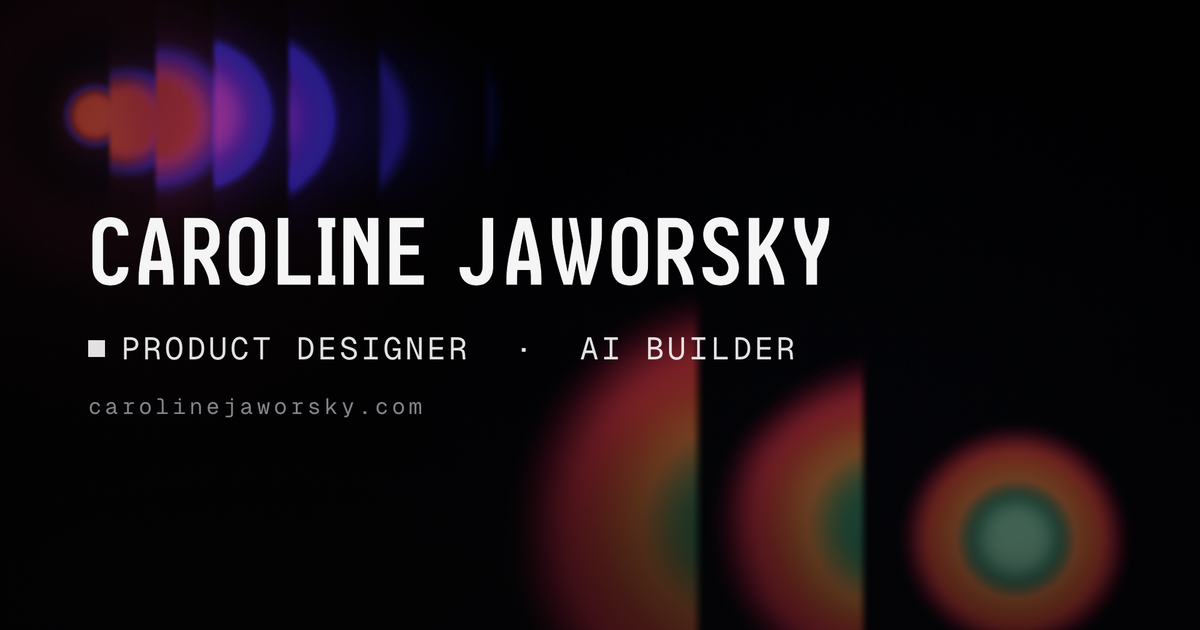
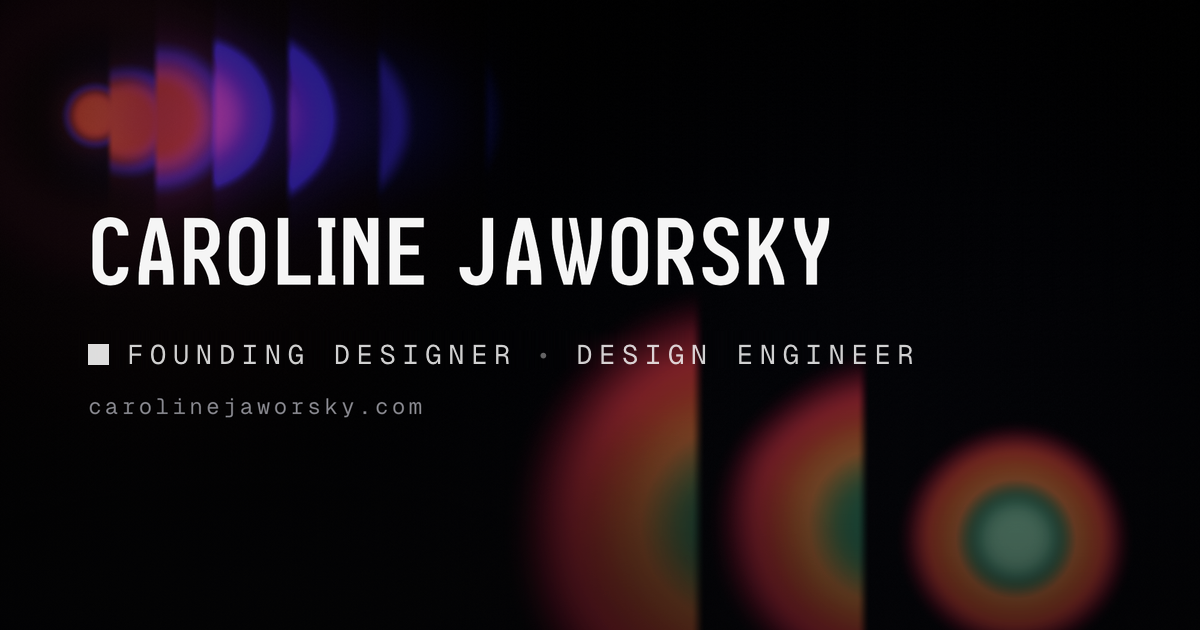
og card label refresh, streaming hero copy, galaxy default view trim

Changed region(s): [[0.0617, 0.5127, 0.4317, 0.6032], [0.4625, 0.5127, 0.7708, 0.573]]

diff --git a/components/HeroCopy.tsx b/components/HeroCopy.tsx
@@ -2,13 +2,76 @@
 
 import { useEffect, useState } from "react";
 
-// The headline types itself in on first paint — as if someone were keying it
-// in live. Iosevka Charon (terminal-ish, quasi-proportional) sells the effect.
+// The headline types itself in on first paint, then the intro paragraphs
+// STREAM in after it (same feel as the About bio) — one timeline, so the copy
+// never sits there fully-formed while the headline is still keying in.
 // ("Hi I'm Caroline," intro line removed 2026-08-17 per Caroline.)
 const HEADLINE = "I turn early concepts into\nlaunch-ready products";
 
 const START_DELAY = 350; // ms before the first character
 const HEADLINE_SPEED = 42;
+const SUB_DELAY = 250; // beat between headline finishing and the stream
+const SUB_CPS = 550; // paragraph stream speed (chars/second)
+
+const MINT = "text-[#94FFD9]";
+const BOLD = "text-fg font-semibold";
+
+// Rich segments: cls styles the span; decor marks the unicode sparkles
+// (aria-hidden on the visible layer, excluded from the sr-only text).
+type Seg = { t: string; cls?: string; decor?: boolean };
+
+const PARAGRAPHS: Seg[][] = [
+  [
+    { t: "I’m a designer with " },
+    { t: "13 years", cls: BOLD },
+    {
+      t: " across physical and digital products. I started in luxury fashion, designing garments, graphics and brand identities for Alexander McQueen, Burberry and Casablanca. ",
+    },
+    { t: "˚ ⊹ ｡ ·", cls: MINT, decor: true },
+  ],
+  [
+    { t: "✧ ", cls: MINT, decor: true },
+    { t: "I spent two years as the " },
+    { t: "founding designer at a pre-seed startup", cls: BOLD },
+    {
+      t: ", owning discovery, research and delivery, with 0-to-1 launches that lifted engagement by 30%.",
+    },
+  ],
+  [
+    { t: "✦ ", cls: MINT, decor: true },
+    {
+      t: "Today I build AI tools at E.ON Next, where my squad owns its products end to end. The knowledge assistant I designed reached a ",
+    },
+    { t: "97% would-recommend", cls: BOLD },
+    { t: " score and a green light for company-wide rollout. " },
+    { t: "° ◦", cls: MINT, decor: true },
+  ],
+];
+
+const paraLen = (segs: Seg[]) => segs.reduce((n, s) => n + s.t.length, 0);
+const SUB_TOTAL = PARAGRAPHS.reduce((n, p) => n + paraLen(p), 0);
+
+// Render a paragraph's segments up to `count` visible characters.
+function renderSegs(segs: Seg[], count: number) {
+  const out: React.ReactNode[] = [];
+  let used = 0;
+  segs.forEach((s, i) => {
+    if (used >= count) return;
+    const take = Math.min(s.t.length, count - used);
+    used += take;
+    const slice = s.t.slice(0, take);
+    out.push(
+      s.cls || s.decor ? (
+        <span key={i} className={s.cls} aria-hidden={s.decor || undefined}>
+          {slice}
+        </span>
+      ) : (
+        <span key={i}>{slice}</span>
+      ),
+    );
+  });
+  return out;
+}
 
 function Caret({ blink }: { blink: boolean }) {
   return (
@@ -24,18 +87,32 @@ function Caret({ blink }: { blink: boolean }) {
 
 export function HeroCopy() {
   const [headLen, setHeadLen] = useState(0);
+  const [subLen, setSubLen] = useState(0);
   const [done, setDone] = useState(false);
 
   useEffect(() => {
     const reduce = window.matchMedia("(prefers-reduced-motion: reduce)").matches;
     if (reduce) {
       setHeadLen(HEADLINE.length);
+      setSubLen(SUB_TOTAL);
       setDone(true);
       return;
     }
 
     let h = 0;
     let timer: ReturnType<typeof setTimeout>;
+    let raf = 0;
+
+    const streamSub = () => {
+      let start = 0;
+      const tick = (t: number) => {
+        if (!start) start = t;
+        const n = Math.min(SUB_TOTAL, Math.floor(((t - start) / 1000) * SUB_CPS));
+        setSubLen(n);
+        if (n < SUB_TOTAL) raf = requestAnimationFrame(tick);
+      };
+      raf = requestAnimationFrame(tick);
+    };
 
     const typeHeadline = () => {
       h += 1;
@@ -44,17 +121,35 @@ export function HeroCopy() {
         timer = setTimeout(typeHeadline, HEADLINE_SPEED);
       } else {
         setDone(true);
+        timer = setTimeout(streamSub, SUB_DELAY);
       }
     };
 
     timer = setTimeout(typeHeadline, START_DELAY);
-    return () => clearTimeout(timer);
+    return () => {
+      clearTimeout(timer);
+      cancelAnimationFrame(raf);
+    };
   }, []);
+
+  // Per-paragraph visible counts from the single stream counter.
+  const counts: number[] = [];
+  let remaining = subLen;
+  for (const p of PARAGRAPHS) {
+    const len = paraLen(p);
+    counts.push(Math.max(0, Math.min(len, remaining)));
+    remaining -= counts[counts.length - 1];
+  }
 
   return (
     <div className="font-hero">
       {/* Accessible, instantly-complete copy for screen readers */}
-      <p className="sr-only">{HEADLINE.replace("\n", " ")}</p>
+      <p className="sr-only">
+        {HEADLINE.replace("\n", " ")}{" "}
+        {PARAGRAPHS.map((p) =>
+          p.filter((s) => !s.decor).map((s) => s.t).join(""),
+        ).join(" ")}
+      </p>
 
       <div aria-hidden className="flex flex-col gap-4">
         {/* Desktop keeps the authored break after "into" (pre-line renders the \n).
@@ -64,6 +159,18 @@ export function HeroCopy() {
           {HEADLINE.slice(0, headLen)}
           <Caret blink={done} />
         </h1>
+
+        {/* Streamed intro paragraphs. Each <p> keeps an INVISIBLE full copy for
+            sizing (no layout shift while streaming) with the streamed text
+            overlaid on top — identical content prefix, identical wrapping. */}
+        <div className="mt-10 max-w-[47rem] flex flex-col gap-6 font-body text-lg md:text-xl leading-relaxed text-fg/75 max-md:mt-6 max-md:gap-4 max-md:text-base">
+          {PARAGRAPHS.map((p, i) => (
+            <p key={i} className="relative">
+              <span className="invisible">{renderSegs(p, Infinity)}</span>
+              <span className="absolute inset-0">{renderSegs(p, counts[i])}</span>
+            </p>
+          ))}
+        </div>
       </div>
     </div>
   );

diff --git a/app/page.tsx b/app/page.tsx
@@ -52,33 +52,9 @@ export default function Home() {
               <span className="max-md:pl-[30px] max-sm:pl-6">Design engineer</span>
             </div>
 
+            {/* Headline + intro paragraphs live together in HeroCopy now: the
+                headline types, then the paragraphs STREAM in on one timeline. */}
             <HeroCopy />
-
-            {/* Subheading — the positioning copy (Caroline-approved 2026-08-17).
-                Static on purpose: only the intro + headline get the typing effect. */}
-            <div className="mt-10 max-w-[47rem] flex flex-col gap-6 font-body text-lg md:text-xl leading-relaxed text-fg/75 max-md:mt-6 max-md:gap-4 max-md:text-base">
-              <p>
-                I&rsquo;m a designer with{" "}
-                <strong className="text-fg font-semibold">13 years</strong> across
-                physical and digital products. I started in luxury fashion,
-                designing garments, graphics and brand identities for Alexander
-                McQueen, Burberry and Casablanca. <span aria-hidden className="text-[#94FFD9]">˚ ⊹ ｡ ·</span>
-              </p>
-              <p>
-                <span aria-hidden className="text-[#94FFD9]">✧ </span>I spent two years as the{" "}
-                <strong className="text-fg font-semibold">founding designer at a pre-seed startup</strong>,
-                owning discovery, research and delivery, with 0-to-1 launches that
-                lifted engagement by 30%.
-              </p>
-              <p>
-                <span aria-hidden className="text-[#94FFD9]">✦ </span>Today I build AI tools at E.ON Next,
-                where my squad owns its products end to end. The knowledge
-                assistant I designed reached a{" "}
-                <strong className="text-fg font-semibold">97% would-recommend</strong>{" "}
-                score and a green light for company-wide rollout.{" "}
-                <span aria-hidden className="text-[#94FFD9]">° ◦</span>
-              </p>
-            </div>
           </div>
         </section>
       </main>

diff --git a/app/layout.tsx b/app/layout.tsx
@@ -55,14 +55,8 @@ export const metadata: Metadata = {
   openGraph: {
     type: "website",
     siteName: "Caroline Jaworsky",
-    images: [
-      {
-        url: "/og.png",
-        width: 1200,
-        height: 630,
-        alt: "Caroline Jaworsky - founding designer and design engineer. I turn early concepts into launch-ready products.",
-      },
-    ],
+    // og:image comes from the file convention: app/opengraph-image.png (and
+    // app/twitter-image.png) — Caroline's designed card. Don't add images here.
   },
   twitter: { card: "summary_large_image" },
 };

diff --git a/lib/galaxyData.ts b/lib/galaxyData.ts
@@ -563,8 +563,7 @@ export const GALAXY_NODES: GalaxyNode[] = [
     "type": "skill",
     "name": "AI architecture",
     "cluster": "ai",
-    "size": 2,
-    "featured": true
+    "size": 2
   },
   {
     "id": "front-end",
@@ -578,8 +577,7 @@ export const GALAXY_NODES: GalaxyNode[] = [
     "type": "skill",
     "name": "back-end engineering",
     "cluster": "engineering",
-    "size": 2,
-    "featured": true
+    "size": 2
   },
   {
     "id": "typescript-react",
